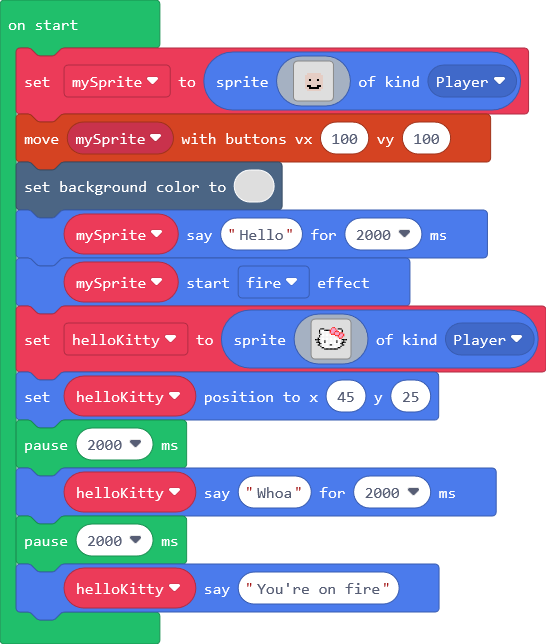
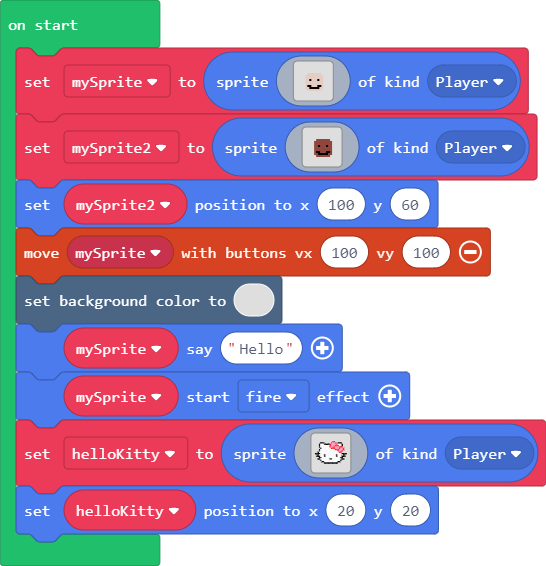
Added second face sprite

diff --git a/main.ts b/main.ts
@@ -16,6 +16,25 @@ let mySprite = sprites.create(img`
 . . . . . . . . . . . . . . . . 
 . . . . . . . . . . . . . . . . 
 `, SpriteKind.Player)
+let mySprite2 = sprites.create(img`
+. . . . . . . . . . . . . . . . 
+. . . . . . . . . . . . . . . . 
+. . . . . . . . . . . . . . . . 
+. . . . . . . . . . . . . . . . 
+. . . . . e e e e e e e . . . . 
+. . . . e e e e e e e e e . . . 
+. . . . e e e e e e e e e . . . 
+. . . . e e f e e e f e e . . . 
+. . . . e e e e e e e e e . . . 
+. . . . e e e e e e e e e . . . 
+. . . . e f f e e e f f e . . . 
+. . . . e e f f f f f e e . . . 
+. . . . . e e e e e e e . . . . 
+. . . . . . . . . . . . . . . . 
+. . . . . . . . . . . . . . . . 
+. . . . . . . . . . . . . . . . 
+`, SpriteKind.Player)
+mySprite2.setPosition(100, 60)
 controller.moveSprite(mySprite, 100, 100)
 scene.setBackgroundColor(0)
 mySprite.say("Hello", 2000)
